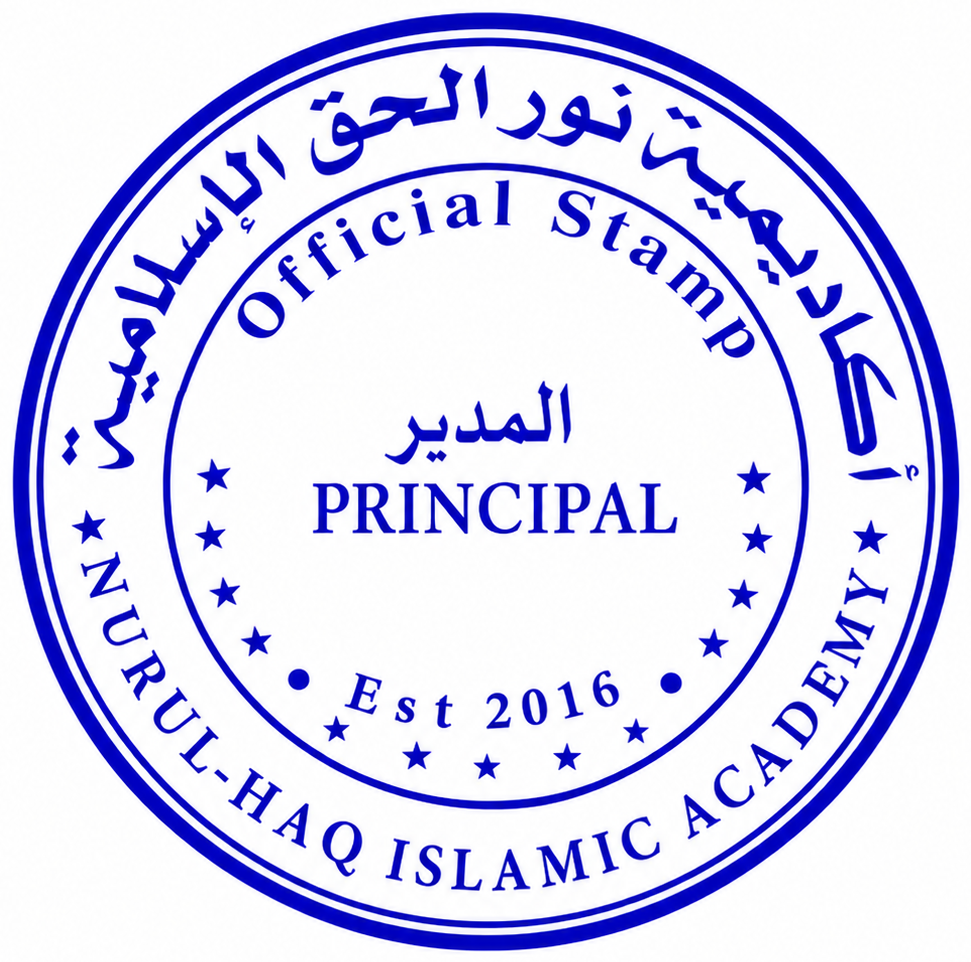
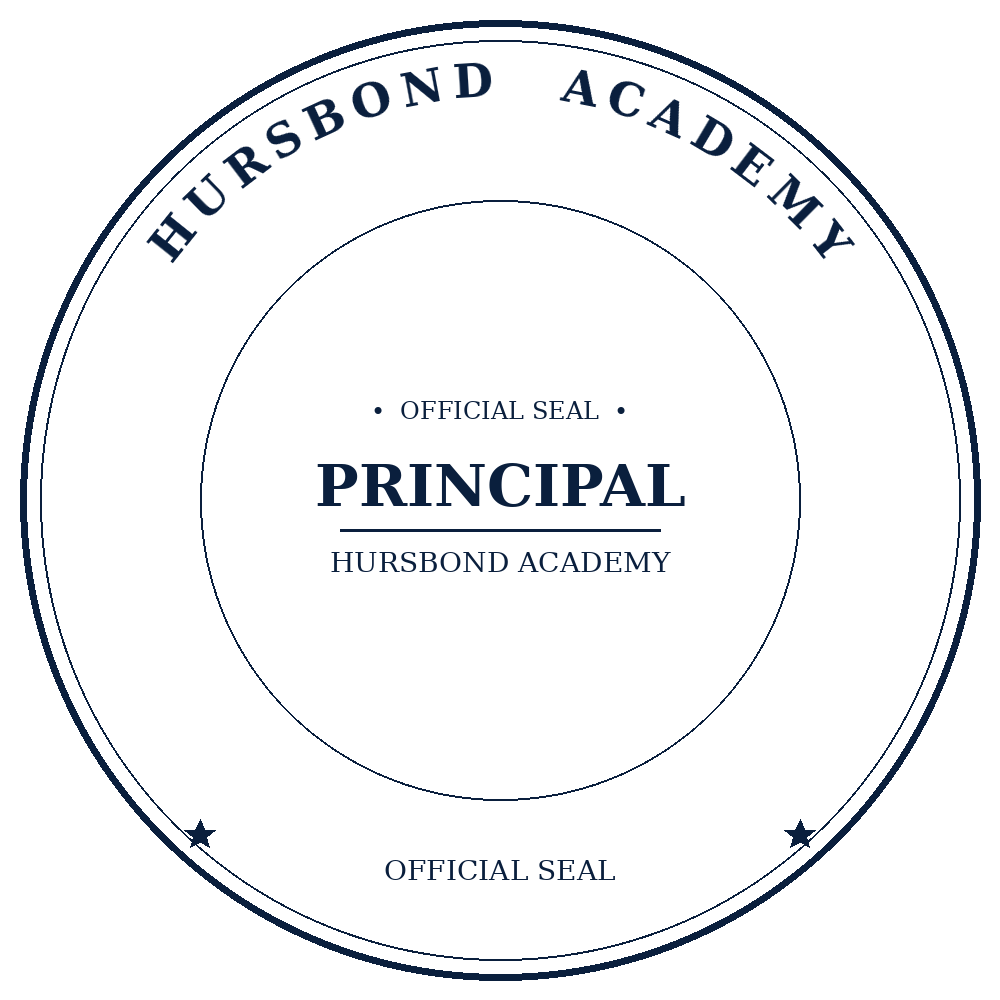
Updated backend

diff --git a/replace.js b/replace.js
@@ -70,7 +70,7 @@ const newPdfCode = `// ═══════════════ DRAW THE PD
   const textX = marginX + 70;
   const textW = usableW - 140;
   doc.font("Helvetica-Bold").fontSize(16).fillColor("#000")
-    .text((settings.schoolName || "NURUL-HAQ ISLAMIC ACADEMY").toUpperCase(), textX, y + 10, { width: textW, align: "center" });
+    .text((settings.schoolName || "HURSBOND ACADEMY").toUpperCase(), textX, y + 10, { width: textW, align: "center" });
   doc.font("Helvetica").fontSize(9).fillColor("#000")
     .text((settings.address || "NEW JERSEY, ANGOLA").toUpperCase(), textX, y + 28, { width: textW, align: "center" });
   doc.font("Helvetica").fontSize(9).fillColor("#000")
@@ -320,7 +320,7 @@ const newPdfCode = `// ═══════════════ DRAW THE PD
   doc.circle(stampX, stampY, 25).lineWidth(1).stroke(BORDER);
   doc.circle(stampX, stampY, 23).lineWidth(1).stroke(BORDER);
   doc.font("Helvetica-Bold").fontSize(5).fillColor(BORDER)
-    .text("NURUL-HAQ ISLAMIC ACADEMY", stampX - 22, stampY - 15, { width: 44, align: "center" });
+    .text("HURSBOND ACADEMY", stampX - 22, stampY - 15, { width: 44, align: "center" });
   doc.text("Official Stamp", stampX - 22, stampY - 5, { width: 44, align: "center" });
   doc.text("PRINCIPAL", stampX - 22, stampY + 5, { width: 44, align: "center" });
   
